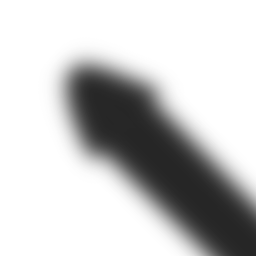
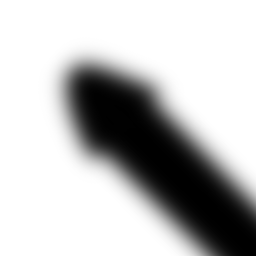
masking changes

Changed region(s): [[0.2812, 0.25, 1.0, 1.0]]

diff --git a/worker.js b/worker.js
@@ -2,6 +2,7 @@
 const Pand = require('pandemonium')
 const Jimp = require('jimp')
 const workerpool = require('workerpool')
+const { BLEND_SOURCE_OVER } = require('jimp')
 
 function editImage (url, options) {
   // edit function that we pass to workers
@@ -82,7 +83,12 @@ function addFace (baseUrl, faceUrl) {
     return Jimp.read(baseUrl).then(baseEmote => {
       // do a bit of transformation of the face
       flush.contain(baseEmote.bitmap.width, baseEmote.bitmap.height, Jimp.HORIZONTAL_ALIGN_CENTER | Jimp.VERTICAL_ALIGN_MIDDLE)
-      baseEmote.composite(flush, 0, 0, { mode: Jimp.BLEND_SOURCE_OVER })
+      const mask = baseEmote.clone()
+      // create a mask image to ensure shadow doesn't go over transparent regions
+      mask.grayscale()
+      mask.opaque()
+      if (faceUrl.includes('jfc')) flush.mask(mask, 0, 0)
+      baseEmote.composite(flush, 0, 0, { mode: BLEND_SOURCE_OVER })
       return baseEmote.getBufferAsync(Jimp.AUTO).then(buf => {
         return buf
       })
